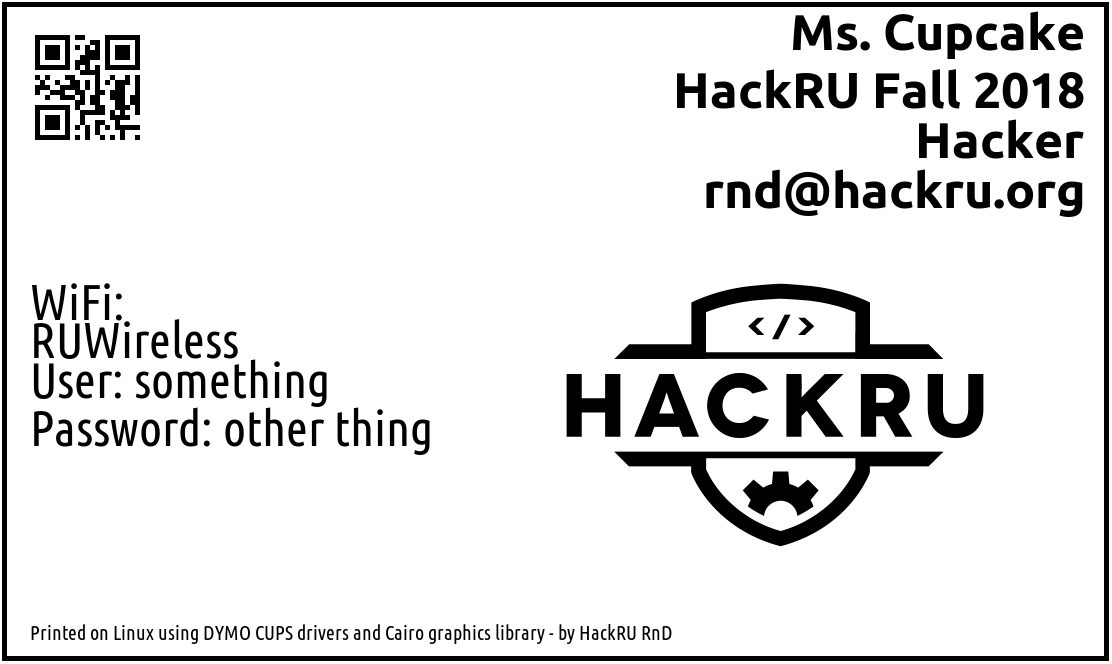
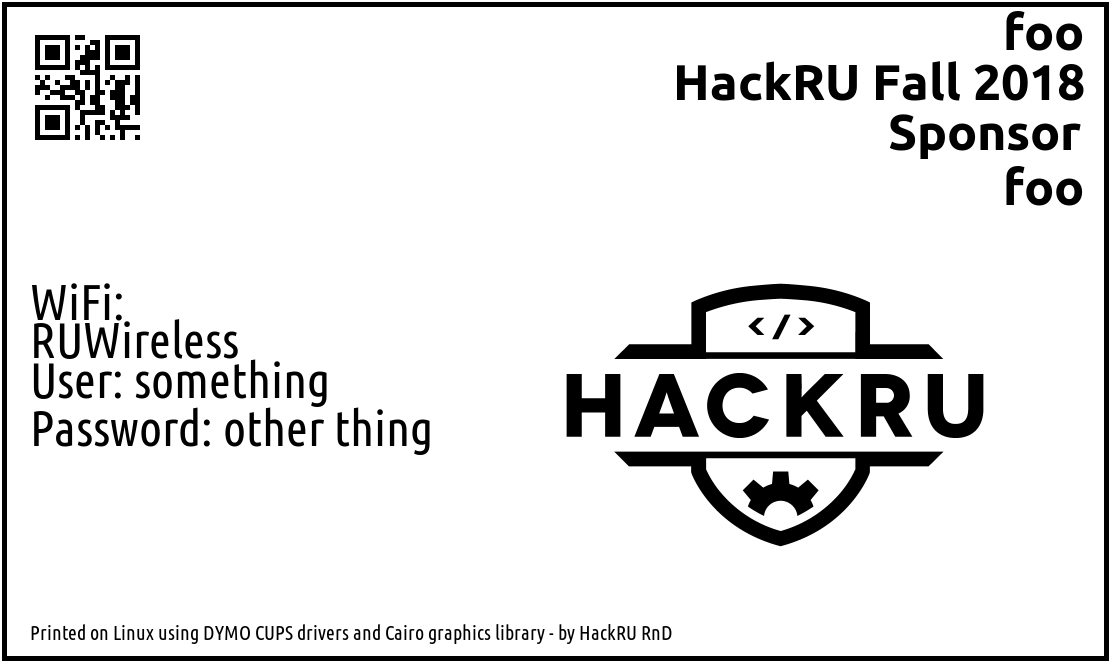
Add roles

Changed region(s): [[0.6115, 0.0, 0.9784, 0.3313]]

diff --git a/samples/test_label/TestLabel.cpp b/samples/test_label/TestLabel.cpp
@@ -54,7 +54,7 @@ FindPapers(ppd_group_t* group, int num_groups)
 
 
 void
-CreateLabelImage(int Width, int Height, char * name, char * email)
+CreateLabelImage(int Width, int Height, char * name, char * email, char * role)
 {
   CairoSurfacePtr Surface(cairo_image_surface_create(CAIRO_FORMAT_RGB24, Width, Height));
   if (!*Surface)
@@ -98,7 +98,7 @@ CreateLabelImage(int Width, int Height, char * name, char * email)
   const char* lines[4] = {
     name,
     "HackRU Fall 2018",
-    "Hacker",
+    role,
     email };
 
   cairo_text_extents_t te;
@@ -190,7 +190,7 @@ int main(int argc, char** argv)
   try
   {
     if (argc < 4)
-      throw Error("Usage: test_label <PrinterName> <Hacker Name> <Hacker Email>");
+      throw Error("Usage: test_label <PrinterName> <Hacker Name> <Hacker Email> <role='Hacker'> <don't print flag>");
 
 
     //printf("Please Insert '30256 Shipping' paper. Press 'c' to continue, 'a' to abort: ");
@@ -203,8 +203,11 @@ int main(int argc, char** argv)
     int Width = 1112;
     int Height = 664;
     
-    CreateLabelImage(Width, Height, argv[2], argv[3]);
-    if (argc == 5) return 0;
+    char * role = "Hacker";
+    if(argc >= 5) role = argv[4];
+
+    CreateLabelImage(Width, Height, argv[2], argv[3], role);
+    if (argc == 6) return 0;
 
     int             num_options = 0;
     cups_option_t*  options = NULL;
